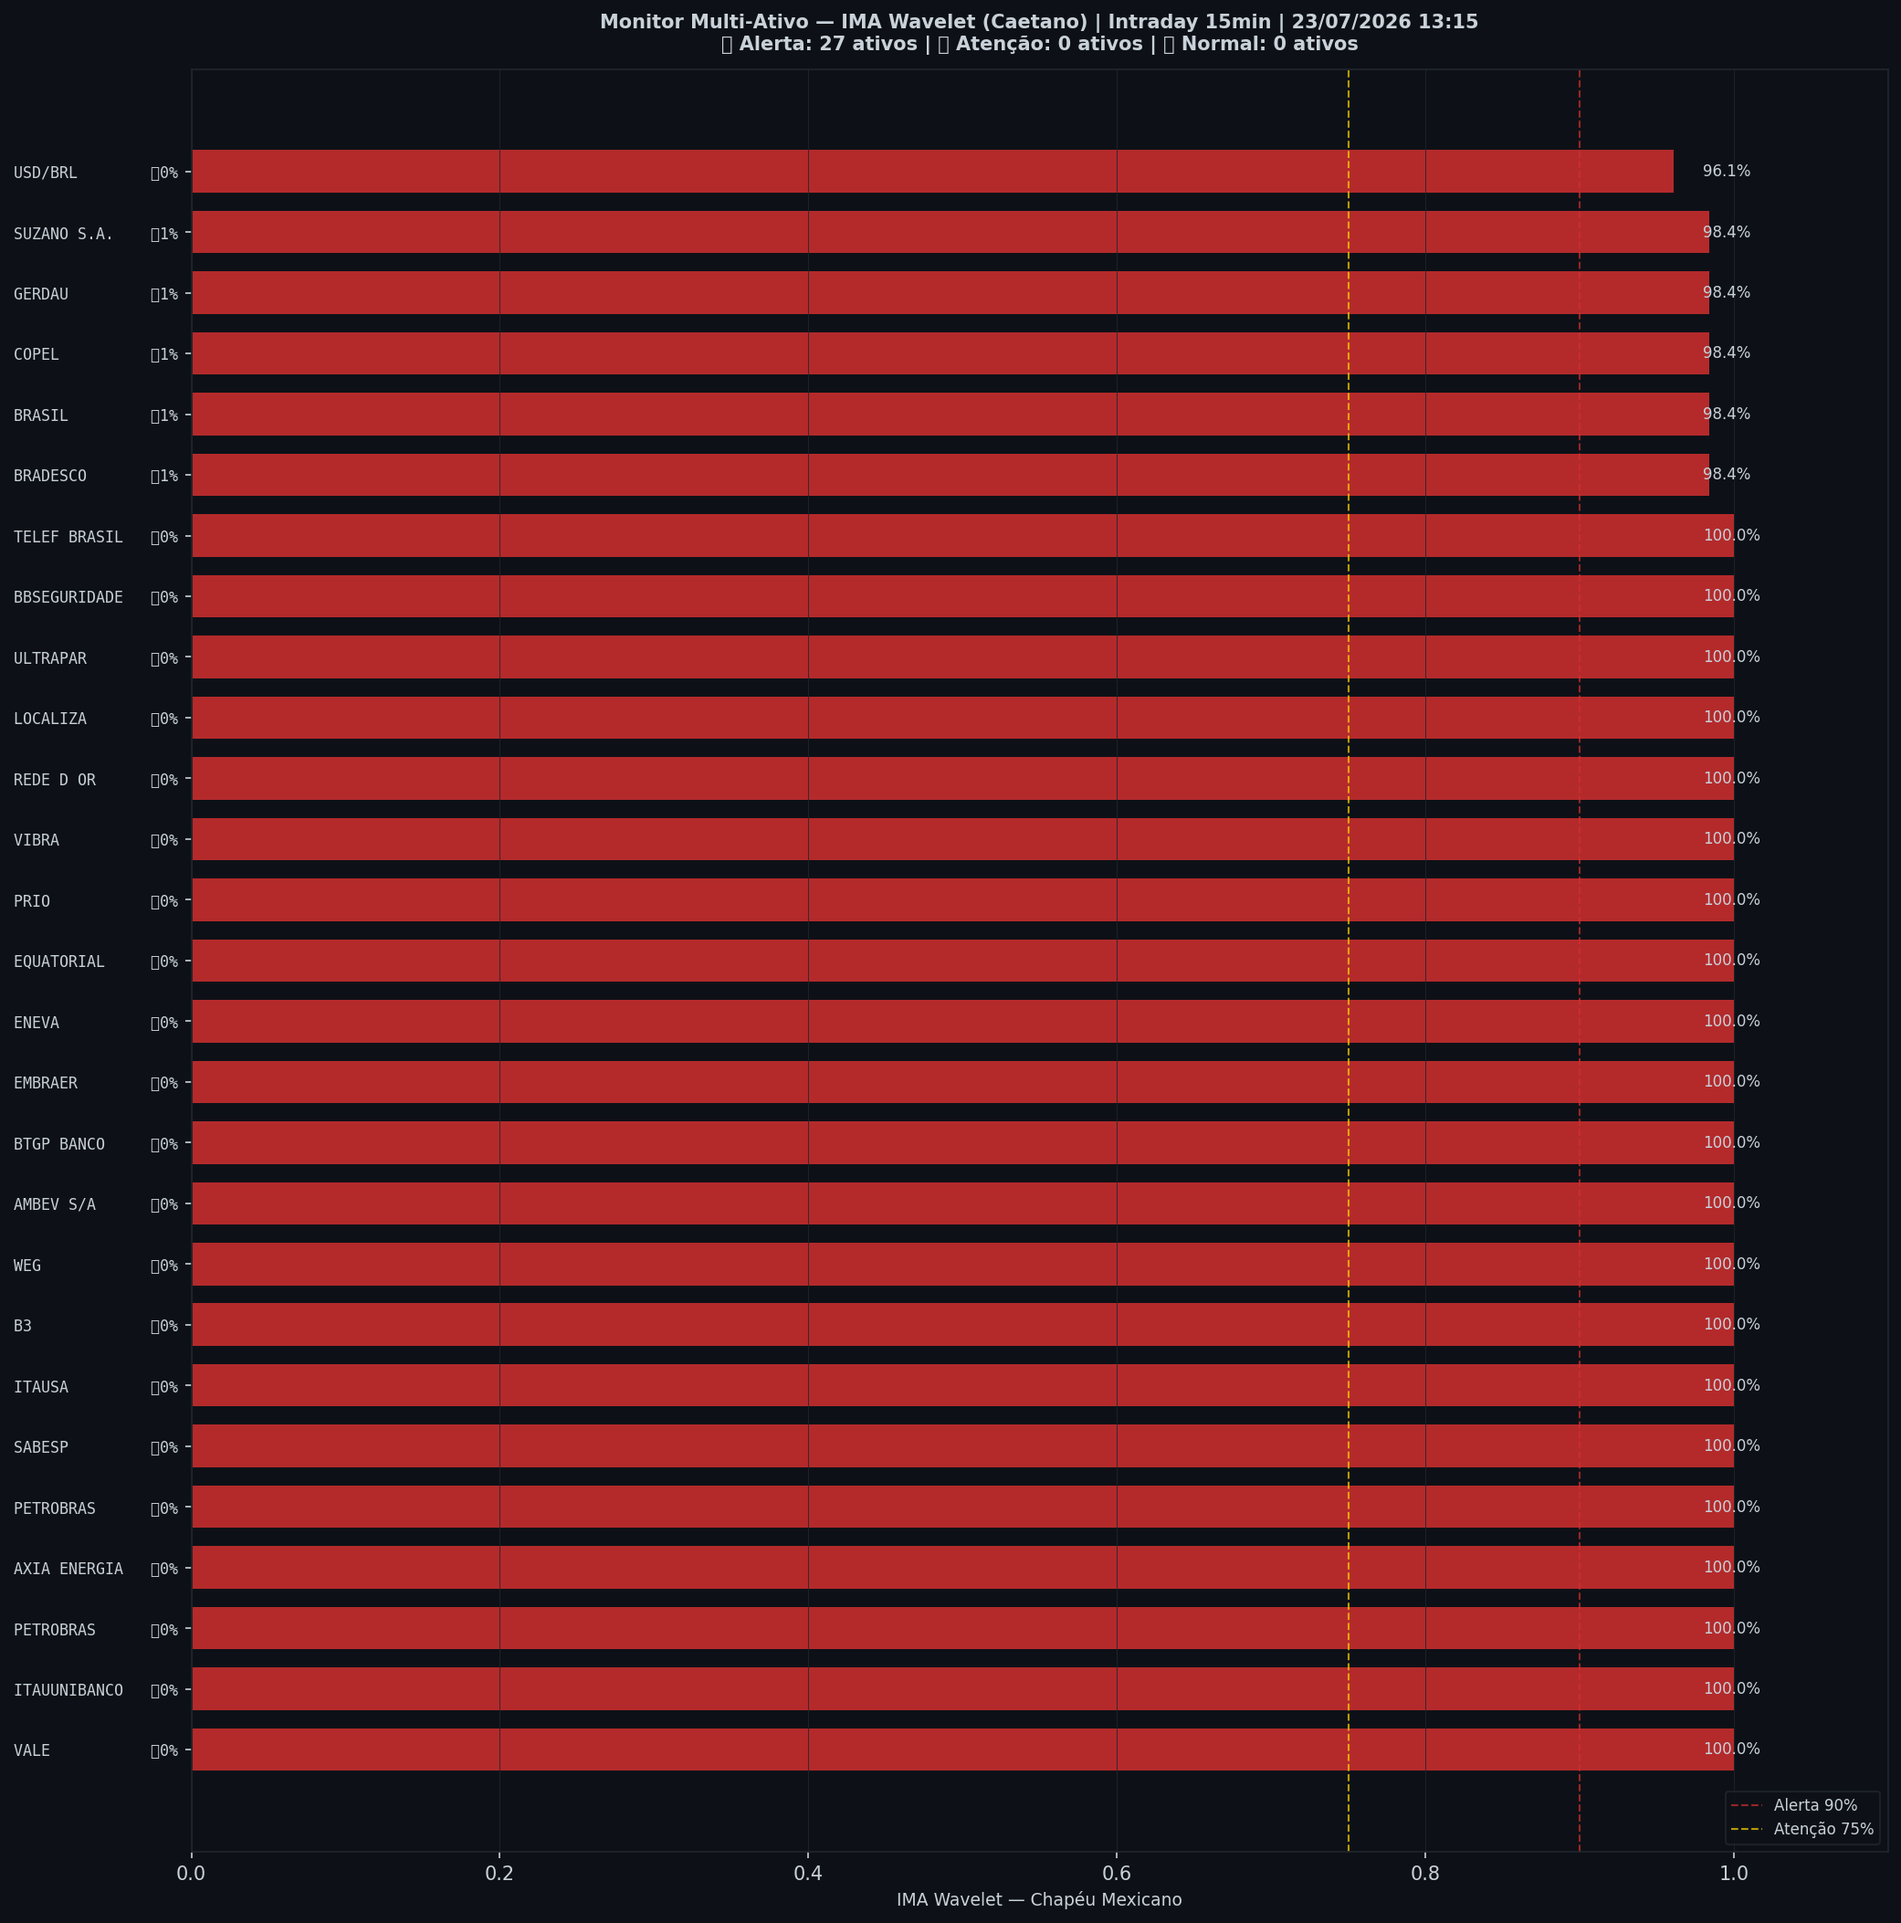
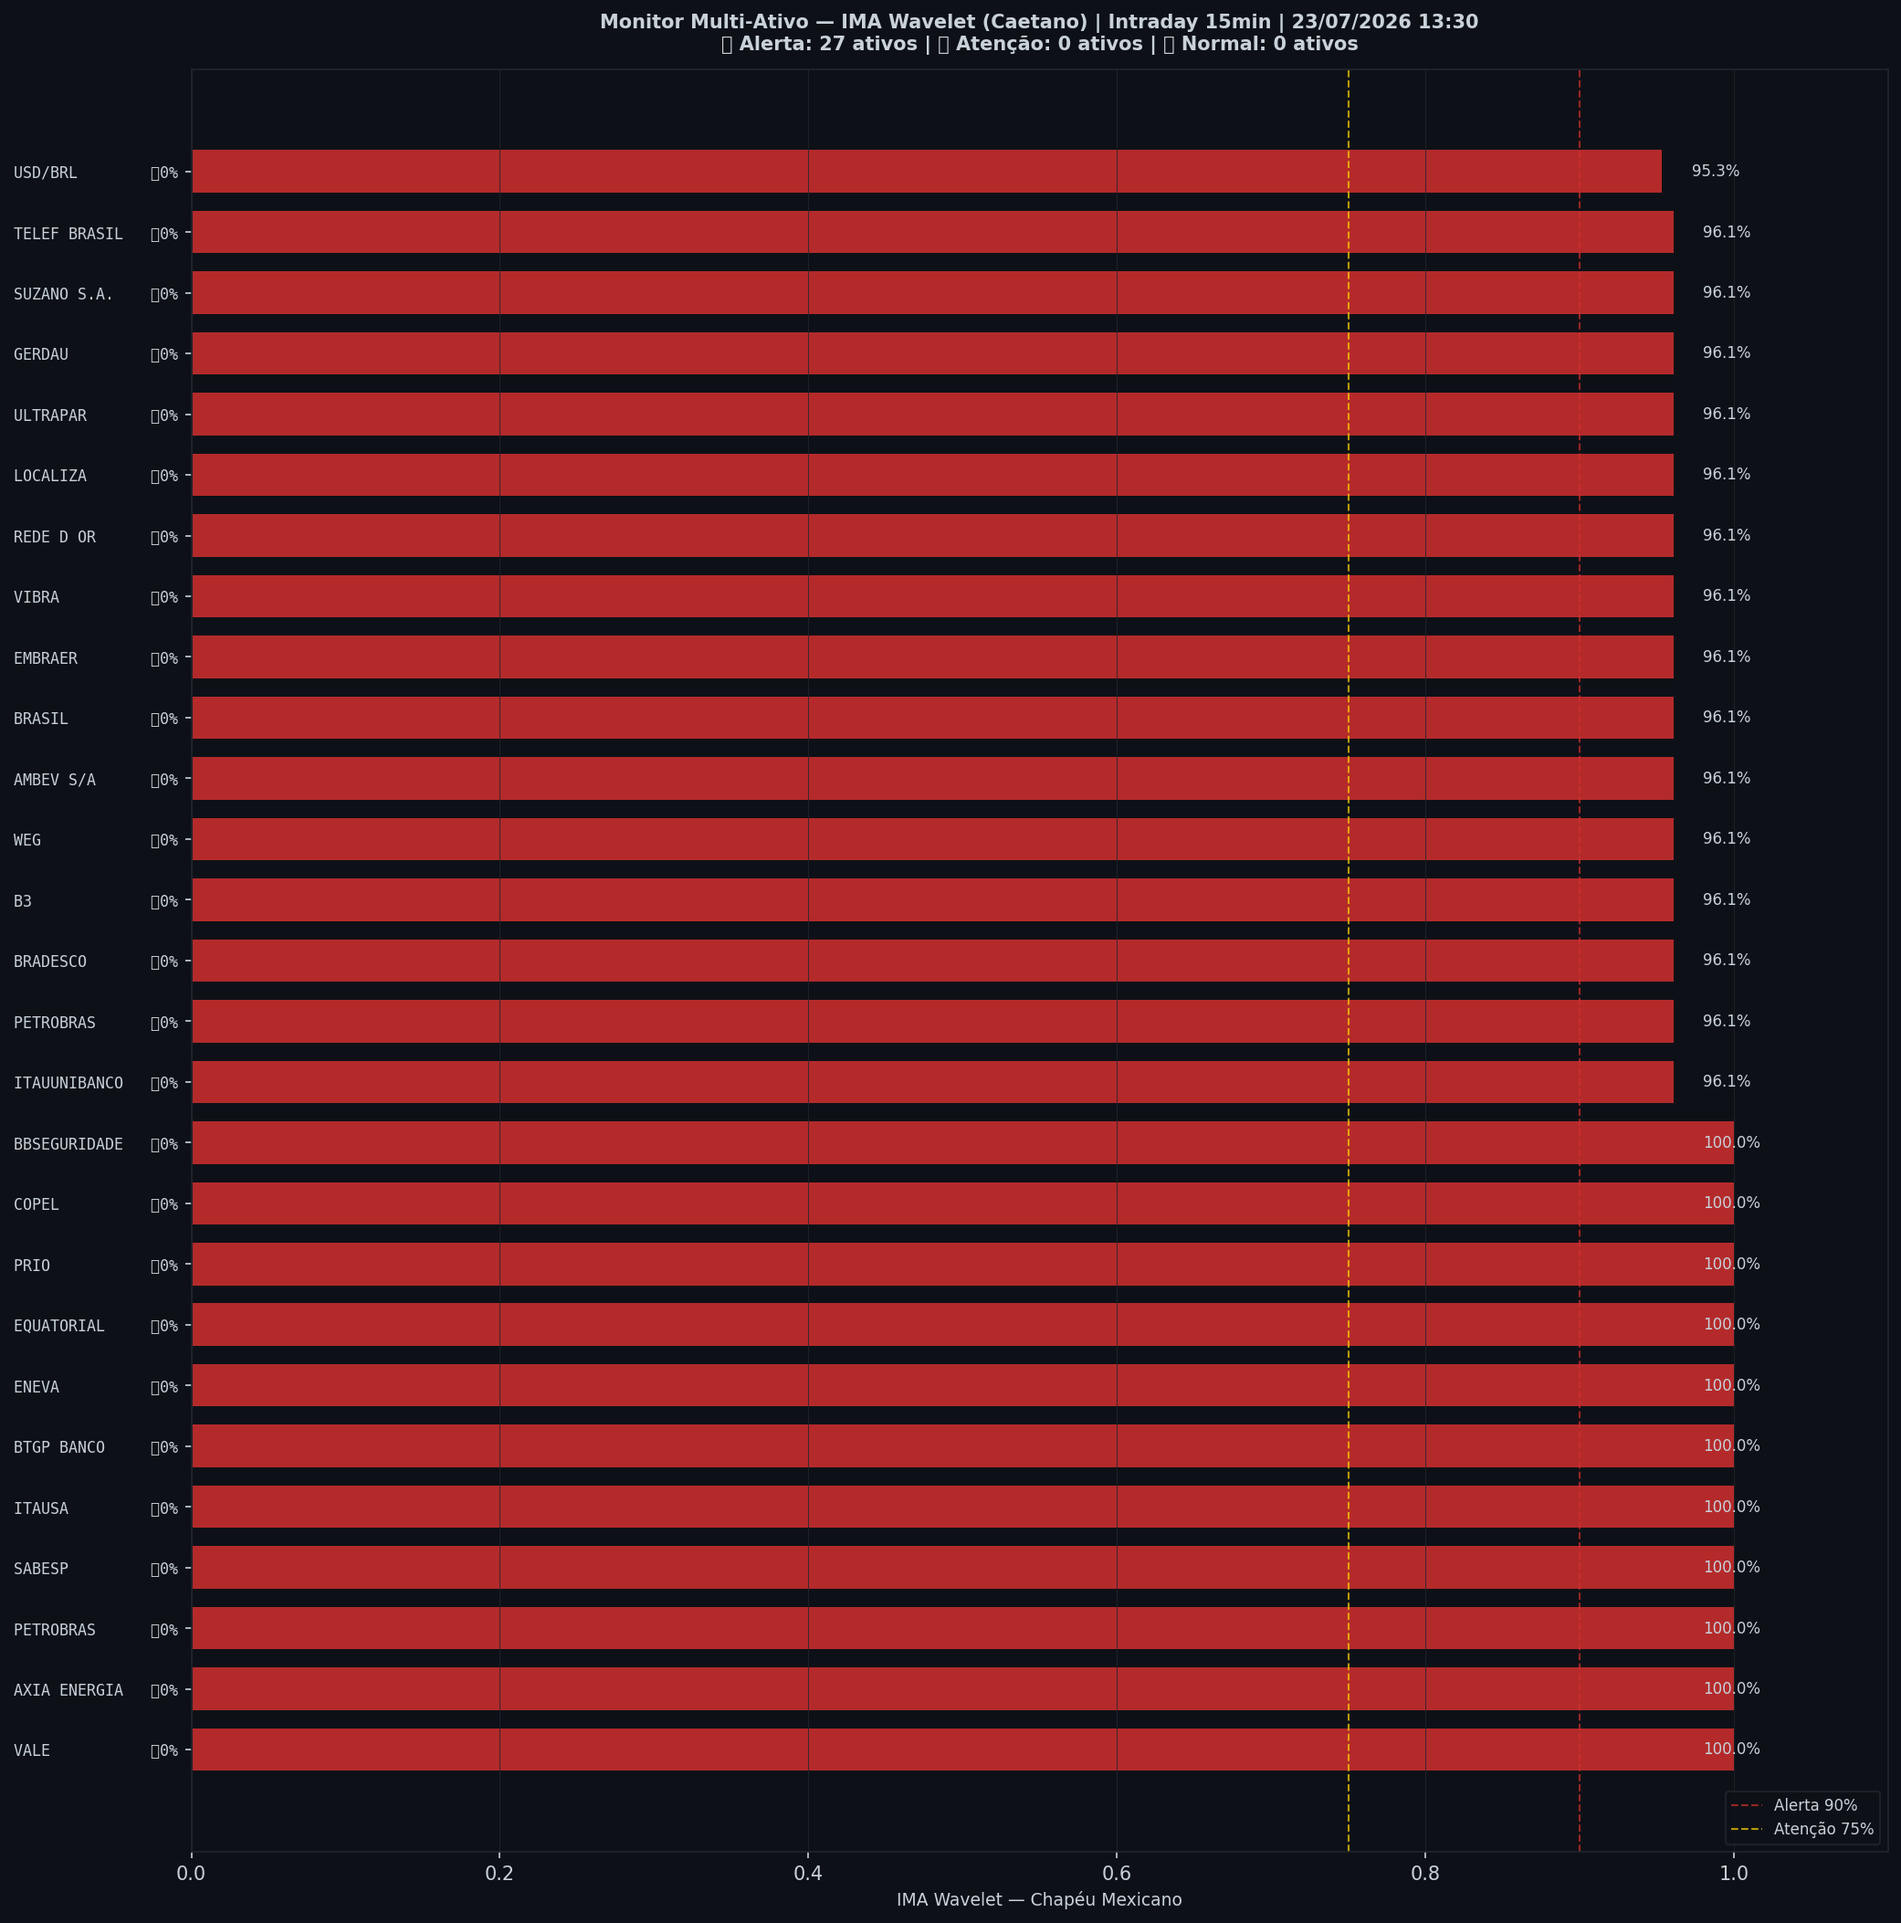
🤖 Auto: Sinal 23/07/2026 13:30

Changed region(s): [[0.8742, 0.0617, 0.9366, 0.5864], [0.0312, 0.5556, 0.0624, 0.6173], [0.0312, 0.8642, 0.0624, 0.8951]]

diff --git a/content/intraday/2026-07-23.md b/content/intraday/2026-07-23.md
@@ -1,20 +1,20 @@
 ---
-title: "🔴 Intraday 23/07/2026 12:30 BRT — VERMELHO"
+title: "🟡 Intraday 23/07/2026 12:45 BRT — AMARELO"
 date: 2026-07-23
 tags: [intraday]
 ---
 
-> [!danger] 🔴 **VERMELHO** — Risco 78% · ▼ -7 p.p. vs leitura anterior
-> `████████████████░░░░`
-> ALERTA DE CRISE — padrão pré-crise detectado.
+> [!warning] 🟡 **AMARELO** — Risco 69% · ▼ -9 p.p. vs leitura anterior
+> `██████████████░░░░░░`
+> Atenção — padrão de coeficientes associado a quedas mais severas.
 
 
 | Indicador | Valor |
 |---|---|
-| 🔴 ζ Crash — severidade da queda em curso | **78%** |
-| 🔵 ζ Entrada — estrutura de fundo | 0% |
+| 🔴 ζ Crash — severidade da queda em curso | **69%** |
+| 🔵 ζ Entrada — estrutura de fundo | 2% |
 | 🫧 LPPL DS-Confidence | 0% |
-| 📊 Ibovespa | 176.563 pts |
+| 📊 Ibovespa | 176.592 pts |
 
 ![Gráfico do sinal](../graficos/sinal_intraday.png)
 
@@ -22,6 +22,7 @@ tags: [intraday]
 
 | Data | Zona | Risco | IMA Crash | Entrada | LPPL |
 |---|---|---|---|---|---|
+| 2026-07-23 12:45 | 🟡 AMARELO | **69%** | 69% | 2% | 0% |
 | 2026-07-23 12:30 | 🔴 VERMELHO | **78%** | 78% | 0% | 0% |
 | 2026-07-23 12:15 | 🔴 VERMELHO | **85%** | 85% | 0% | 0% |
 | 2026-07-23 12:00 | 🔴 VERMELHO | **90%** | 90% | 0% | 0% |
@@ -51,7 +52,6 @@ tags: [intraday]
 | 2026-07-22 13:00 | 🟡 AMARELO | **60%** | 60% | 1% | 0% |
 | 2026-07-22 12:45 | 🟡 AMARELO | **85%** | 85% | 1% | 0% |
 | 2026-07-22 12:30 | 🟡 AMARELO | **83%** | 83% | 2% | 0% |
-| 2026-07-22 12:15 | 🟢 VERDE | **49%** | 49% | 2% | 0% |
 
 ## Monitor Multi-Ativo
 
@@ -60,36 +60,36 @@ tags: [intraday]
 | Zona | Ativo | Setor | IMA Crash | IMA Entrada |
 |---|---|---|---|---|
 | 🔴 | **VALE** | Mineração | 100.0% | 0.0% |
-| 🔴 | **ITAUUNIBANCO** | Financeiro | 100.0% | 0.0% |
-| 🔴 | **PETROBRAS** | Petróleo | 100.0% | 0.0% |
 | 🔴 | **AXIA ENERGIA** | Energia | 100.0% | 0.0% |
 | 🔴 | **PETROBRAS** | Petróleo | 100.0% | 0.0% |
 | 🔴 | **SABESP** | Saneamento | 100.0% | 0.0% |
 | 🔴 | **ITAUSA** | Financeiro | 100.0% | 0.0% |
-| 🔴 | **B3** | Financeiro | 100.0% | 0.0% |
-| 🔴 | **WEG** | Industrial | 100.0% | 0.0% |
-| 🔴 | **AMBEV S/A** | Consumo | 100.0% | 0.0% |
 | 🔴 | **BTGP BANCO** | Financeiro | 100.0% | 0.0% |
-| 🔴 | **EMBRAER** | Outros | 100.0% | 0.0% |
 | 🔴 | **ENEVA** | Energia | 100.0% | 0.0% |
 | 🔴 | **EQUATORIAL** | Energia | 100.0% | 0.0% |
 | 🔴 | **PRIO** | Petróleo | 100.0% | 0.0% |
-| 🔴 | **VIBRA** | Energia | 100.0% | 0.0% |
-| 🔴 | **REDE D OR** | Saúde | 100.0% | 0.0% |
-| 🔴 | **LOCALIZA** | Aluguel | 100.0% | 0.0% |
-| 🔴 | **ULTRAPAR** | Outros | 100.0% | 0.0% |
+| 🔴 | **COPEL** | Energia | 100.0% | 0.0% |
 | 🔴 | **BBSEGURIDADE** | Financeiro | 100.0% | 0.0% |
-| 🔴 | **TELEF BRASIL** | Outros | 100.0% | 0.0% |
-| 🔴 | **BRADESCO** | Financeiro | 98.4% | 0.8% |
-| 🔴 | **BRASIL** | Financeiro | 98.4% | 0.8% |
-| 🔴 | **COPEL** | Energia | 98.4% | 0.8% |
-| 🔴 | **GERDAU** | Siderurgia | 98.4% | 0.8% |
-| 🔴 | **SUZANO S.A.** | Papel/Celulose | 98.4% | 0.8% |
-| 🔴 | **USD/BRL** | Câmbio | 96.1% | 0.0% |
+| 🔴 | **ITAUUNIBANCO** | Financeiro | 96.1% | 0.0% |
+| 🔴 | **PETROBRAS** | Petróleo | 96.1% | 0.0% |
+| 🔴 | **BRADESCO** | Financeiro | 96.1% | 0.0% |
+| 🔴 | **B3** | Financeiro | 96.1% | 0.0% |
+| 🔴 | **WEG** | Industrial | 96.1% | 0.0% |
+| 🔴 | **AMBEV S/A** | Consumo | 96.1% | 0.0% |
+| 🔴 | **BRASIL** | Financeiro | 96.1% | 0.0% |
+| 🔴 | **EMBRAER** | Outros | 96.1% | 0.0% |
+| 🔴 | **VIBRA** | Energia | 96.1% | 0.0% |
+| 🔴 | **REDE D OR** | Saúde | 96.1% | 0.0% |
+| 🔴 | **LOCALIZA** | Aluguel | 96.1% | 0.0% |
+| 🔴 | **ULTRAPAR** | Outros | 96.1% | 0.0% |
+| 🔴 | **GERDAU** | Siderurgia | 96.1% | 0.0% |
+| 🔴 | **SUZANO S.A.** | Papel/Celulose | 96.1% | 0.0% |
+| 🔴 | **TELEF BRASIL** | Outros | 96.1% | 0.0% |
+| 🔴 | **USD/BRL** | Câmbio | 95.3% | 0.0% |
 
 ![Monitor multi-ativo](../graficos/multi_intraday.png)
 
-*Página atualizada em 23/07/2026 13:15 BRT (leitura da barra de 2026-07-23 12:30 BRT).*
+*Página atualizada em 23/07/2026 13:30 BRT (leitura da barra de 2026-07-23 12:45 BRT).*
 
 > [!info]- Como interpretar (clique para expandir)
 > - **ζ Crash**: fração dos coeficientes wavelet acima do corte (Caetano & Yoneyama 2009). Escala absoluta: ζ=0,90 = 90% dos coeficientes anômalos — historicamente, quedas com ζ≥0,90 foram mais fundas e mais longas. **Mede a severidade do movimento em curso, não prevê o início da queda.**

diff --git a/content/index.md b/content/index.md
@@ -4,23 +4,23 @@ date: 2026-07-23
 tags: [home]
 ---
 
-# 🔴 Sinal de Crise B3
+# 🟡 Sinal de Crise B3
 
 Monitoramento diário e intraday do Ibovespa — **IMA Wavelet** (Prof. Marco Antonio Leonel Caetano, ITA/INSPER) + **LPPL DS-Confidence** (Prof. Didier Sornette, ETH-Zurich).
 
-*Última atualização: 23/07/2026 13:15 BRT · ^BVSP · Intraday 15min · v4*
+*Última atualização: 23/07/2026 13:30 BRT · ^BVSP · Intraday 15min · v4*
 
-> [!danger] 🔴 **VERMELHO** — Risco 78% · ▼ -7 p.p. vs leitura anterior
-> `████████████████░░░░`
-> ALERTA DE CRISE — padrão pré-crise detectado.
+> [!warning] 🟡 **AMARELO** — Risco 69% · ▼ -9 p.p. vs leitura anterior
+> `██████████████░░░░░░`
+> Atenção — padrão de coeficientes associado a quedas mais severas.
 
 
 | Indicador | Valor |
 |---|---|
-| 🔴 ζ Crash — severidade da queda em curso | **78%** |
-| 🔵 ζ Entrada — estrutura de fundo | 0% |
+| 🔴 ζ Crash — severidade da queda em curso | **69%** |
+| 🔵 ζ Entrada — estrutura de fundo | 2% |
 | 🫧 LPPL DS-Confidence | 0% |
-| 📊 Ibovespa | 176.563 pts |
+| 📊 Ibovespa | 176.592 pts |
 
 **Multi-ativo:** 100% em tensão (27🔴 0🟡 de 27 ativos)
 
@@ -32,7 +32,7 @@ Monitoramento diário e intraday do Ibovespa — **IMA Wavelet** (Prof. Marco An
 
 | Data | Zona | Risco | IMA | LPPL |
 |---|---|---|---|---|
-| [23 Jul 2026](diario/2026-07-23) | 🔴 VERMELHO | **78%** | 78% | 0% |
+| [23 Jul 2026](diario/2026-07-23) | 🟡 AMARELO | **69%** | 69% | 0% |
 | [22 Jul 2026](diario/2026-07-22) | 🔴 VERMELHO | **98%** | 98% | 0% |
 
 ## Navegação

diff --git a/content/historico.md b/content/historico.md
@@ -7,6 +7,7 @@ tags: [historico]
 
 | Data | Modo | Zona | Risco | IMA | LPPL |
 |---|---|---|---|---|---|
+| 2026-07-23 12:45 | intraday | 🟡 AMARELO | 69% | 69% | 0% |
 | 2026-07-23 12:30 | intraday | 🔴 VERMELHO | 78% | 78% | 0% |
 | 2026-07-23 12:15 | intraday | 🔴 VERMELHO | 85% | 85% | 0% |
 | 2026-07-23 12:00 | intraday | 🔴 VERMELHO | 90% | 90% | 0% |
